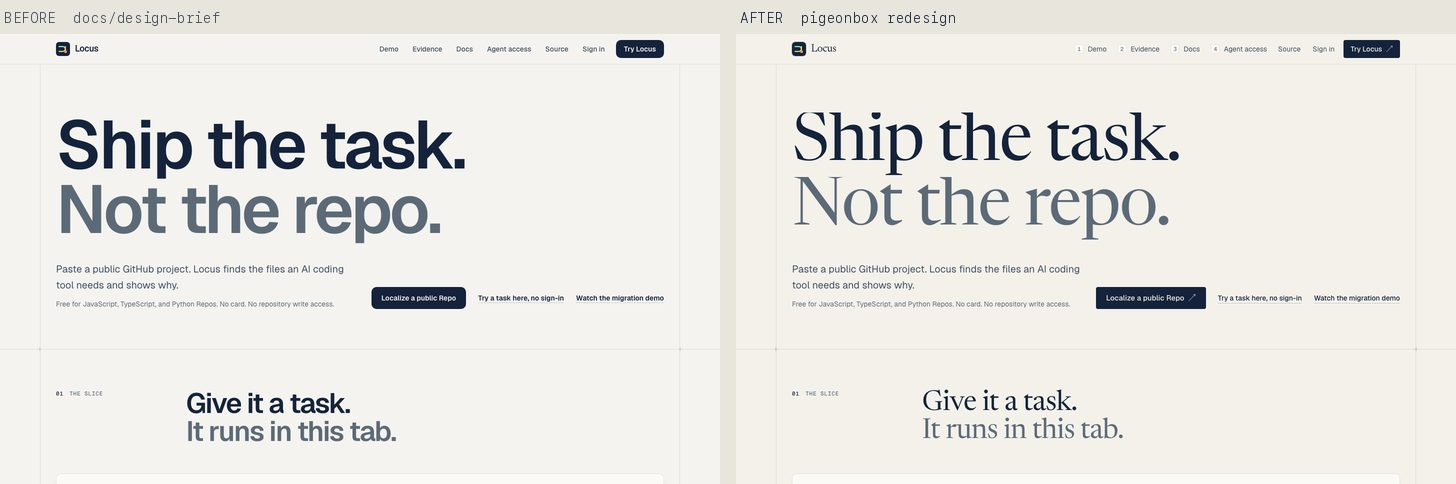
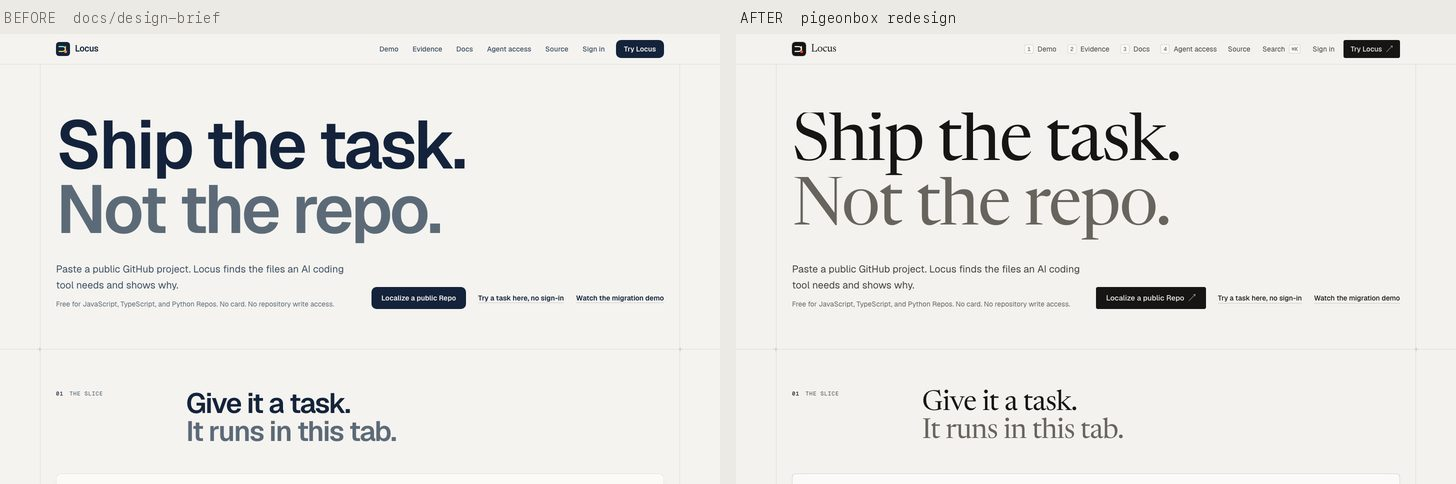
docs(design): record the launch pass and retake the screenshots
The brief's results gain the launch pass: palette, fonts, layout
stability, speed, accessibility, the depth features, the signed-in
checks, the browsers covered and what was not checked. The nine
before-and-after sheets are retaken on the final build, and the case board
and command menu get their own.

diff --git a/docs/design/locus-design-brief.md b/docs/design/locus-design-brief.md
@@ -587,3 +587,74 @@ datasheet stays; its type, canvas and object grammar changed.
   `pigeonbox-landing-close-1440-light.jpg`, `pigeonbox-pricing-1440-light.jpg`,
   `pigeonbox-docs-1440-light.jpg`, `pigeonbox-evidence-1440-light.jpg`,
   `pigeonbox-support-1440-dark.jpg`, `pigeonbox-sign-in-1440-dark.jpg`.
+
+### The launch pass (November 20, 2026)
+
+Launch readiness, then the depth PigeonBox and Continuity have and Locus
+lacked, read from their source rather than their screenshots
+(`depth-comparison.md`).
+
+- **Palette:** Continuity's, recorded under Palette above: warm paper and ink,
+  a graphite dark theme, and one orange signal for the Slice. The mark,
+  favicon, Apple icon and social card follow it.
+- **Fonts:** Newsreader is self-hosted at a fixed 400 weight with its
+  optical-size axis, 57 KB instead of 132 KB. Fonts weigh 108.7 KB on every
+  page, down from 181.5 KB. While the serif loads, a stand-in sized with the
+  overrides `next/font/google` derives keeps every heading's line breaks;
+  sized from the file itself, as `next/font/local` does by default, it
+  re-wrapped the evidence header on phones as the serif arrived (layout shift
+  0.14).
+- **Nothing moves while a page loads.** On a production build in Chromium, on
+  desktop and on a phone profile (150 ms RTT, 1.6 Mbps, 4x CPU), cumulative
+  layout shift is at most 0.0027 on every public page and sign-in. All 164
+  serif headings keep their height when the font swaps in, at 390, 768, 1024
+  and 1440. Two needed help: the evidence headings now break by line, and the
+  pricing panel's heading is capped by its card's width (at 768 it had 7px to
+  spare). The sign-in placeholder is as tall as Clerk's card, so the card
+  replaces it in place.
+- **Speed:** largest contentful paint is 192 to 432 ms on desktop and 1.45 to
+  1.54 s on the phone profile. The first case board drew one element per file
+  mark, about 700 of them, and pushed the phone landing from 1.45 s to about
+  1.7 s. Each row now draws its marks from at most four tiled elements on a
+  whole-pixel grid, and the landing measures 1.47 to 1.54 s over four runs,
+  level with pages that have no board.
+- **Accessibility:** axe-core (WCAG 2.2 AA and best practice) on every public
+  page, the workspace and settings, in both themes, on desktop and phone, is
+  clear except Clerk's "Secured by" line, which only development instances
+  draw. Every text role is checked at 4.5:1 on all four grounds.
+- **Depth** (`depth-comparison.md`):
+  - Fig. 3, the case board: all 15 fixes in the benchmark, one mark per source
+    file on one scale, opened by hover, focus or tap, each case linked to its
+    fix and snapshot commits. It reads `benchmarks/results.json`, as now do the
+    numbers above it.
+  - Replay on Fig. 2.
+  - A command menu (⌘K or Ctrl+K, or the header's Search): pages, doc
+    sections, short answers that restate published copy, and the theme.
+- **Signed-in pages,** checked with a real session in the app's browser:
+  Workspace, Agent Runs and Settings have page titles; the context trace's
+  header follows its panel's width, so it no longer cramps beside the ranked
+  list; the Agent Run heading is in the serif, and status chips take the chip
+  radius. The account page's sidebar title stays in Clerk's sans: Clerk gives
+  it no appearance key, and a selector into Clerk's markup made Clerk warn on
+  every page that loads it. Clerk's answer is to pin its UI with `@clerk/ui`,
+  a dependency decision of its own.
+- **Browsers:** Chromium throughout, and WebKit (Playwright's build): every
+  public page, the 404 and the auth pages at 1440 and 390 in both themes (44
+  loads, no sideways scroll; the console errors are the Vercel Analytics and
+  Speed Insights scripts, which exist only on a deployment, and on the auth
+  pages the image Clerk draws only on development instances, which the CSP
+  blocks), and the case board, command menu, Replay and the pricing heading
+  driven by script in both engines. That run caught the command menu's results
+  list collapsing to nothing in WebKit, which resolves a 0% flex basis to zero
+  in a dialog whose height is not set; the list now takes its content's height
+  and scrolls inside the cap.
+- **Checks:** `pnpm lint`, `pnpm typecheck`, `pnpm check:merge-markers`,
+  `pnpm check:alpha-claims`, `pnpm evidence:release1`, `pnpm check-sync` and
+  `pnpm build` pass. `pnpm test`: 1041 passed, 9 skipped, with new suites for
+  the case board and the command menu, and Replay cases for Fig. 2.
+- **Not checked:** Firefox (macOS's sandbox stops Playwright's Firefox from
+  starting here); Safari on a real phone; a real Vercel deployment; Windows
+  forced colours, where the case board's marks switch to system colours by CSS
+  that was not seen rendered.
+- Screenshots: the nine `pigeonbox-*.jpg` sheets above, retaken on this build,
+  and `depth-case-board-1440-light.jpg`, `depth-command-menu-1440-light.jpg`.
